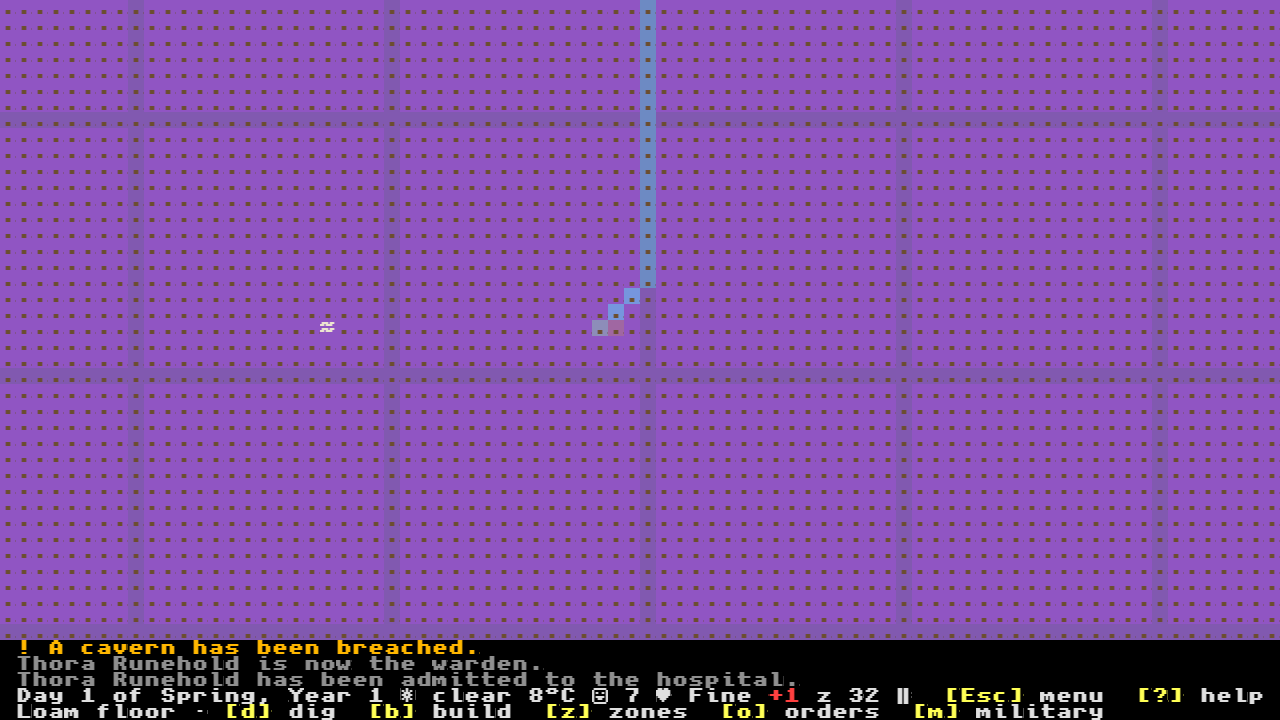
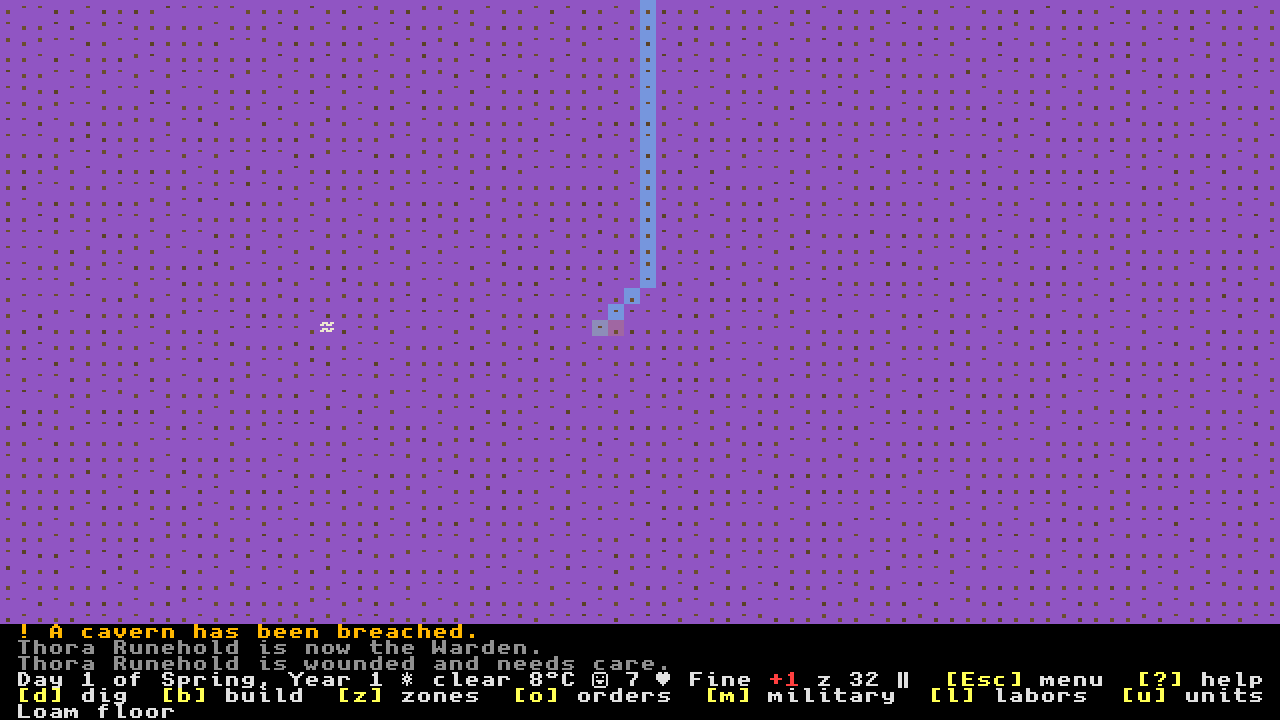
T-670: panels-act leaves the item view 8c opened with h before reading the dwarf's tile list

diff --git a/test/e2e/panels-act.spec.ts b/test/e2e/panels-act.spec.ts
@@ -665,6 +665,9 @@ test('panels-act', async ({ page }) => {
   // ==========================================
   // 8d. T-277 Look, a creature's view: the mood is a whole number; a wounded dwarf shows its care
   // ==========================================
+  // A click of 8c on the lone ground item opened its view (T-670): `h` gives the tile list, which
+  // then follows the cursor set below.
+  if ((await panel()) === 'look' && (await textOf(page)).includes('[h] here')) await page.keyboard.press('h');
   const wounded = await page.evaluate(() => {
     const h = (window as unknown as { __deepholm: PanelsActHook }).__deepholm;
     const dwarf = h.dwarves()[0];

diff --git a/docs/work/T-670-inspection-item-view-links.md b/docs/work/T-670-inspection-item-view-links.md
@@ -13,6 +13,6 @@ Build the design's second task: the item view of § 3 (it holds the item id, its
 ## Done
 
 - [x] Unit tests: an item picked up, put in a barrel and laid in a stockpile keeps its view; links open and Bksp returns. `test/unit/ui/t670-item-view.test.ts`: a lone log clicked opens its view, then carried by a dwarf, put in a bin and dropped in a stockpile it keeps the view, its second line (`Lying on the ground`, `Carried by …`, `In oak bin`, `Lying in Stockpile #n`), its `At` line and the cursor following it, and the stockpile's name opens its settings; a barrel's row in the tile list has its digit, its `Holds` link opens the drink, the drink's `In oak barrel` opens the barrel, `Backspace` steps back through them to the list; a second click on the open item's tile lists it, a destroyed item reads "Gone; last seen at …" and `[h]` lists its last tile; a dwarf's carried pick and its friend are links, `Backspace` returns, the pick's carrier opens the dwarf; `Tab` focuses the links in view and `Enter` opens the focused one.
-- [x] Docs: 24 § Inspection (the item view, names as links, the ladder's item rung), § Input model (the cursor and the left click), 13's item section, `ui-keymap-and-screens.md` § Look panel and § Mouse, the fortress-screen wireframe of the item view; the browser specs `items-on-a-tile` and `runecraft-screens` (a lone item now opens its view).
+- [x] Docs: 24 § Inspection (the item view, names as links, the ladder's item rung), § Input model (the cursor and the left click), 13's item section, `ui-keymap-and-screens.md` § Look panel and § Mouse, the fortress-screen wireframe of the item view; the browser specs `items-on-a-tile`, `runecraft-screens` and `panels-act` (a lone item now opens its view).
 
 The links take no new keymap row: in a view they are the panel's fields, so § Panels' `Tab` / `Shift+Tab` (next / previous field) move the focus and `Enter` (activate) opens it. The `[h]` row now reads "creature or item view: the tile list where it is". The `For` line names the reserving job by its type and its worker (`Haul, Roald Deephelm`), not the mock-up's "Install bed, Bedroom #4". No item commands (design § 9).
